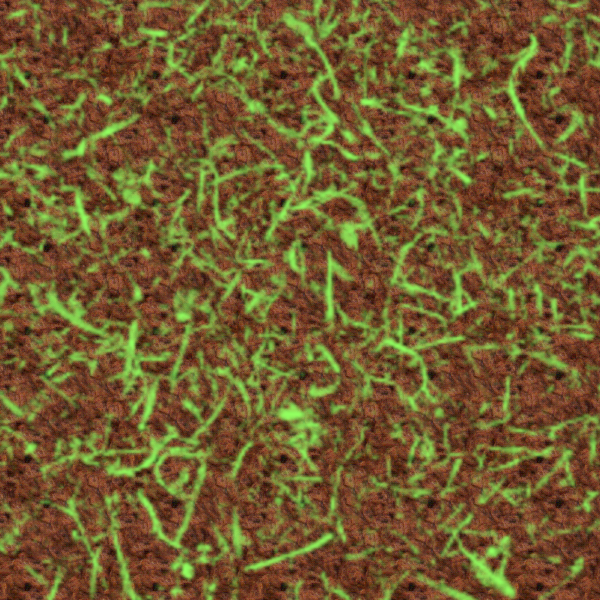
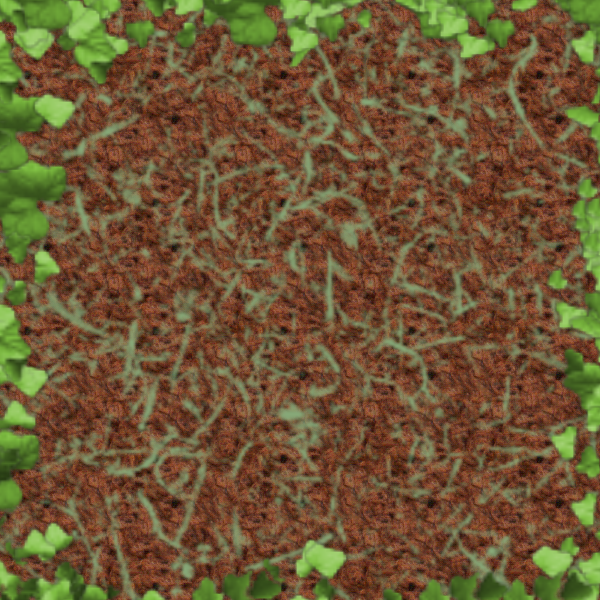
Tomas
انا احب تفاح

diff --git a/Snake/src/SnakePanel.java b/Snake/src/SnakePanel.java
@@ -26,7 +26,7 @@ public class SnakePanel extends JComponent
     float dx,dy;        // current speed + direction of ball 
     boolean start = true;
     double randomNumber1, randomNumber2;
-    BufferedImage background;
+    BufferedImage background, head;
     
     int    delay;       // delay between frames in milliseconds
     Thread animThread;  // animation thread                       
@@ -51,10 +51,13 @@ public class SnakePanel extends JComponent
         for(int i = 0; i<snakeSize; i++) {
         	if(i==0) {
         		// draw head
+        		/*
         		g2.setPaint(Color.red);
                 g2.fill(new Rectangle2D.Double(xp[i], yp[i], xlen, ylen));
                 g2.setColor(Color.black);
                 g2.draw(new Rectangle2D.Double(xp[i], yp[i], xlen, ylen));
+                */
+        		g2.drawImage(head, (int)xp[i], (int)yp[i], null);
         	}
         	else {
         		// draw body
@@ -144,7 +147,8 @@ public class SnakePanel extends JComponent
     public SnakePanel() {
         //loads background
     	try {
-            background = ImageIO.read(new File("bg2.png"));
+            background = ImageIO.read(new File("bg1.png"));
+            head = ImageIO.read(new File("head.png"));
         } catch (IOException e) {
         }
     	

diff --git a/Snake/src/SnakeMain.java b/Snake/src/SnakeMain.java
@@ -8,6 +8,7 @@ public class SnakeMain {
 	public SnakeMain() {
 		mainWindow = new JFrame("Counter-Snake");
 		mainWindow.setDefaultCloseOperation(JFrame.EXIT_ON_CLOSE);
+		mainWindow.setResizable(false);
 		
 		helloPanel = new SnakePanel();
 		mainWindow.getContentPane().add(helloPanel);
